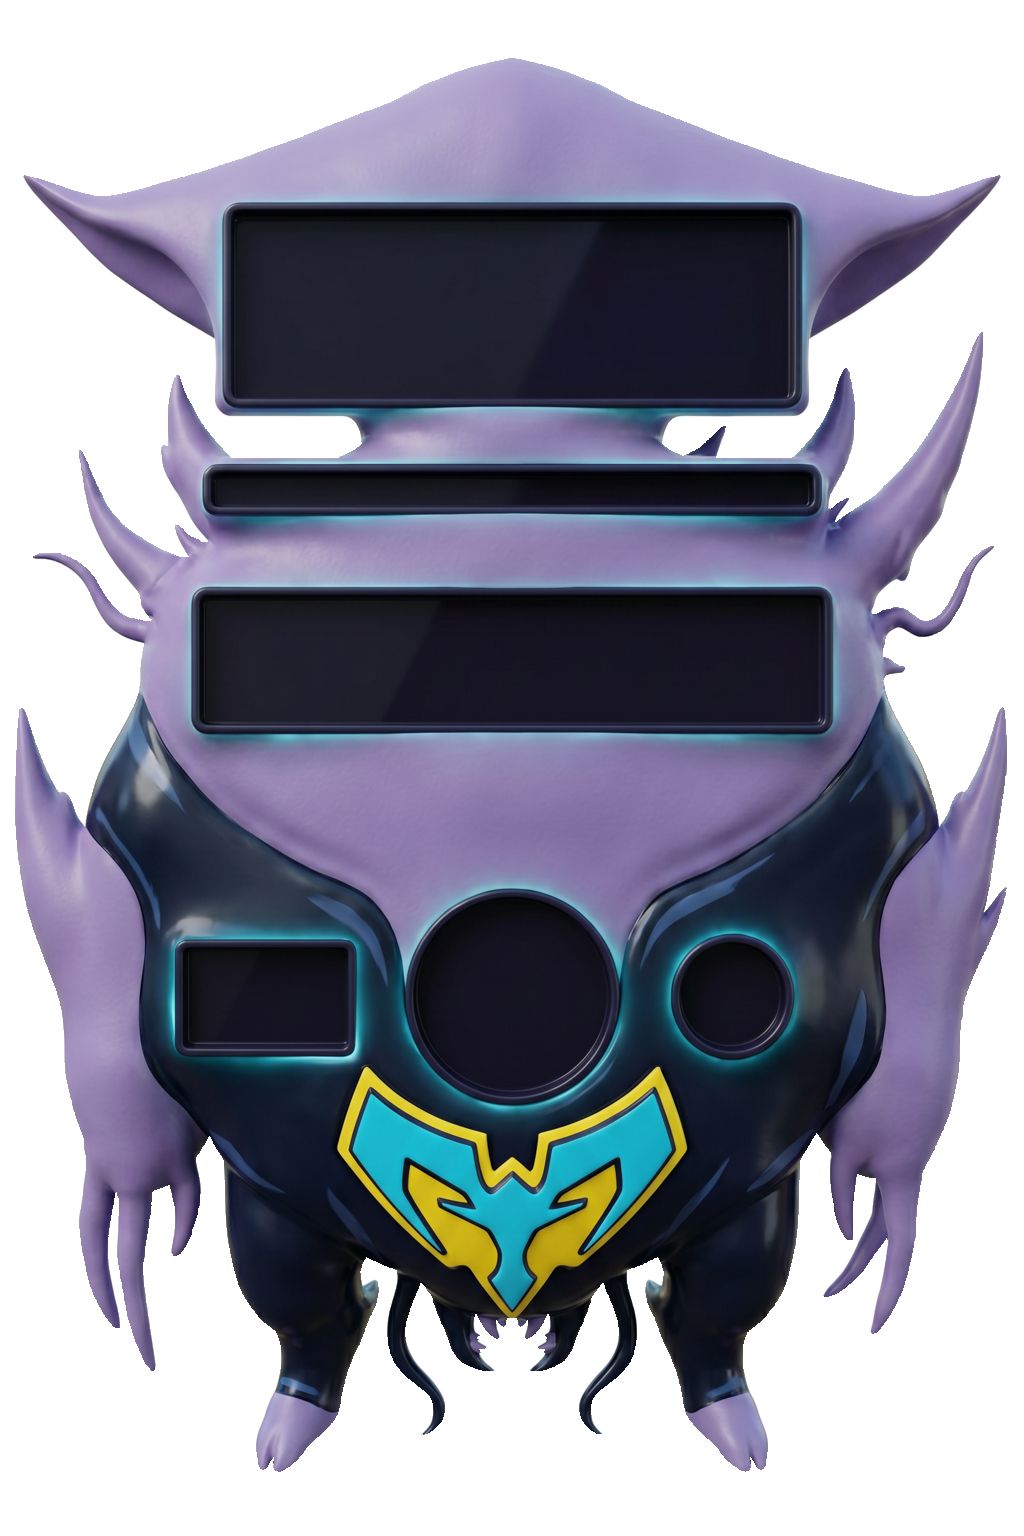
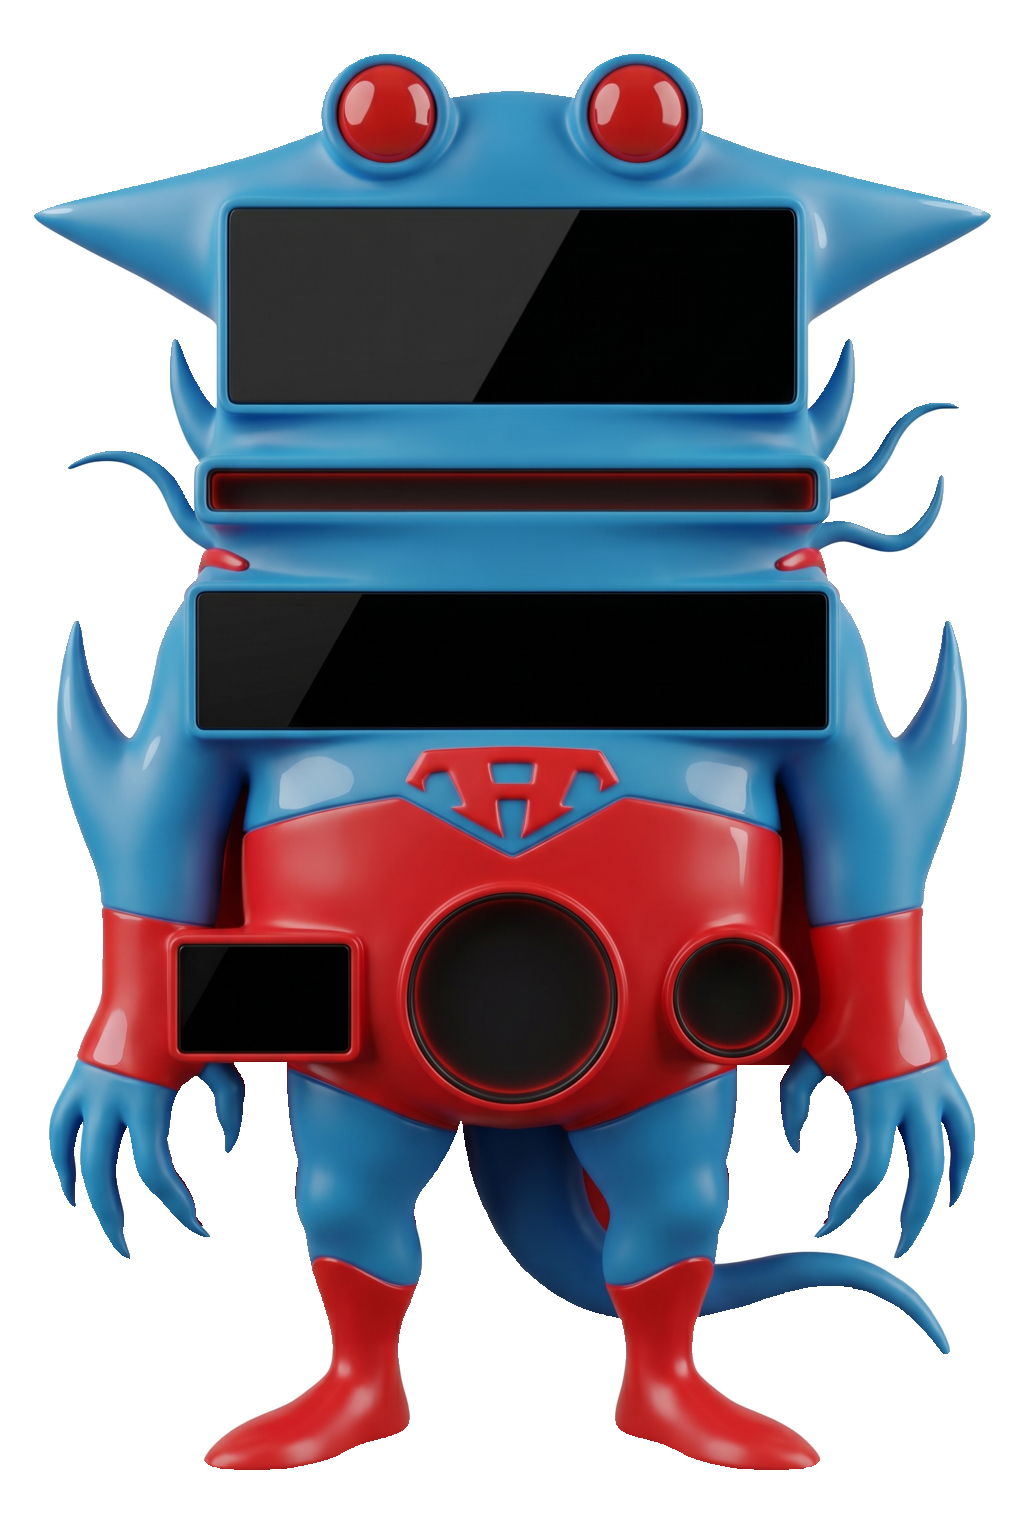
Man Ray: correct colors from reference (blue skin, red eyes, red suit)
First gen came out lavender/cyan. Fixed MATERIAL[manray] to canonical Man Ray —
cerulean-blue skin, large red goggle-eyes, red super-suit/cape + emblem — and
regenerated steering the paint with the user's reference image. Manta-ray head +
all controls (visualizer, bolt scrub, shuffle/play/next) intact.

diff --git a/generation/wild_sculpt.py b/generation/wild_sculpt.py
@@ -43,10 +43,10 @@ MATERIAL = {
     "biomech": ("H.R. Giger biomechanical nightmare: fused bone and sinew, ribbed chitin tubes wrapping "
                 "the body, vertebrae ridges, wet organic sheen, sickly green-amber bioluminescence "
                 "glowing from the recesses."),
-    "manray":  ("the SpongeBob supervillain MAN RAY: smooth matte lavender-purple latex skin over the "
-                "head and arms, a dark navy-and-black rubberized bodysuit on the torso with a bold "
-                "stylized chest emblem, glossy comic-villain highlights, cyan energy glow seeping from "
-                "the control recesses."),
+    "manray":  ("the SpongeBob supervillain MAN RAY: smooth matte CERULEAN-BLUE latex skin over the head "
+                "and body, two large round RED goggle-eyes on the head, a bold RED super-suit and cape "
+                "across the torso with a stylized chest emblem, glossy cartoon-villain highlights, a thin "
+                "red glow seeping from the control recesses. Blue skin, red costume — NOT purple."),
     "winamp":  ("polished chrome and brushed gunmetal over dark charcoal plastic, thin green LED accent "
                 "lines tracing the curves, tiny screws."),
     "frog":    ("glossy moulded rubber toy-frog skin in vivid green with subtle mottling, bulging "
